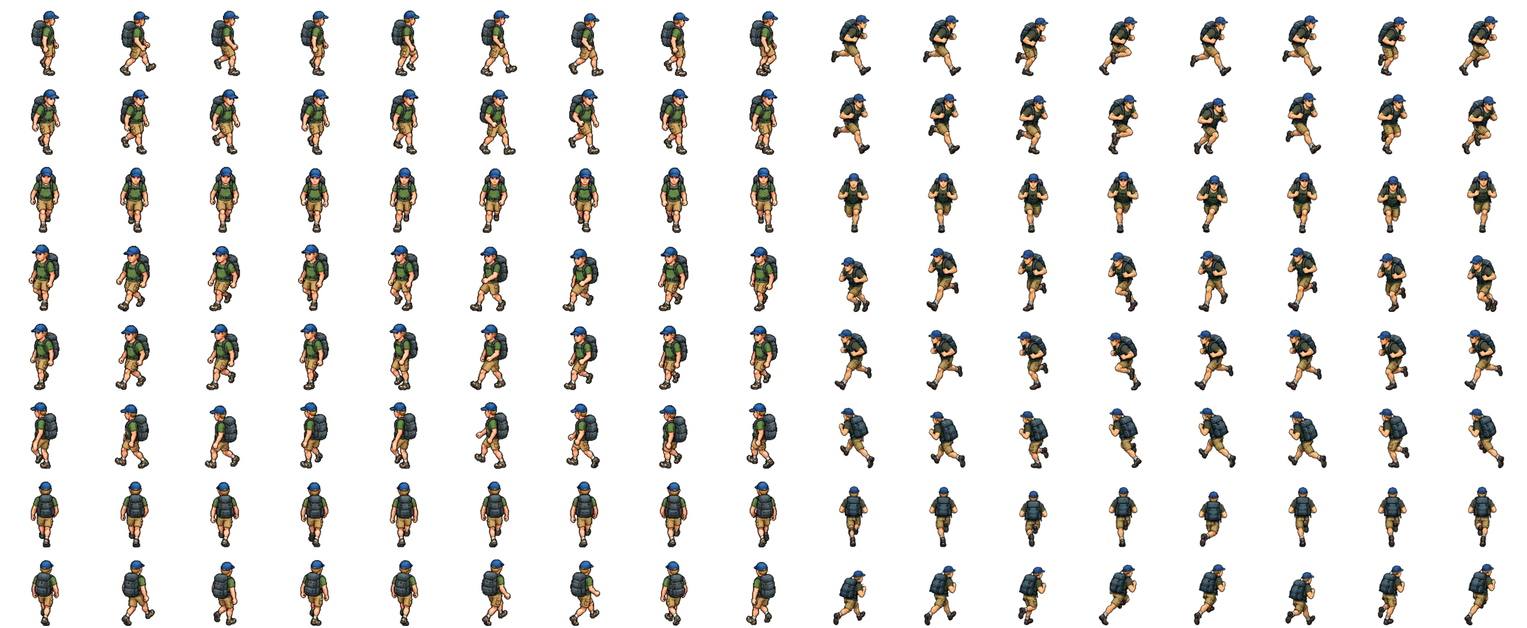
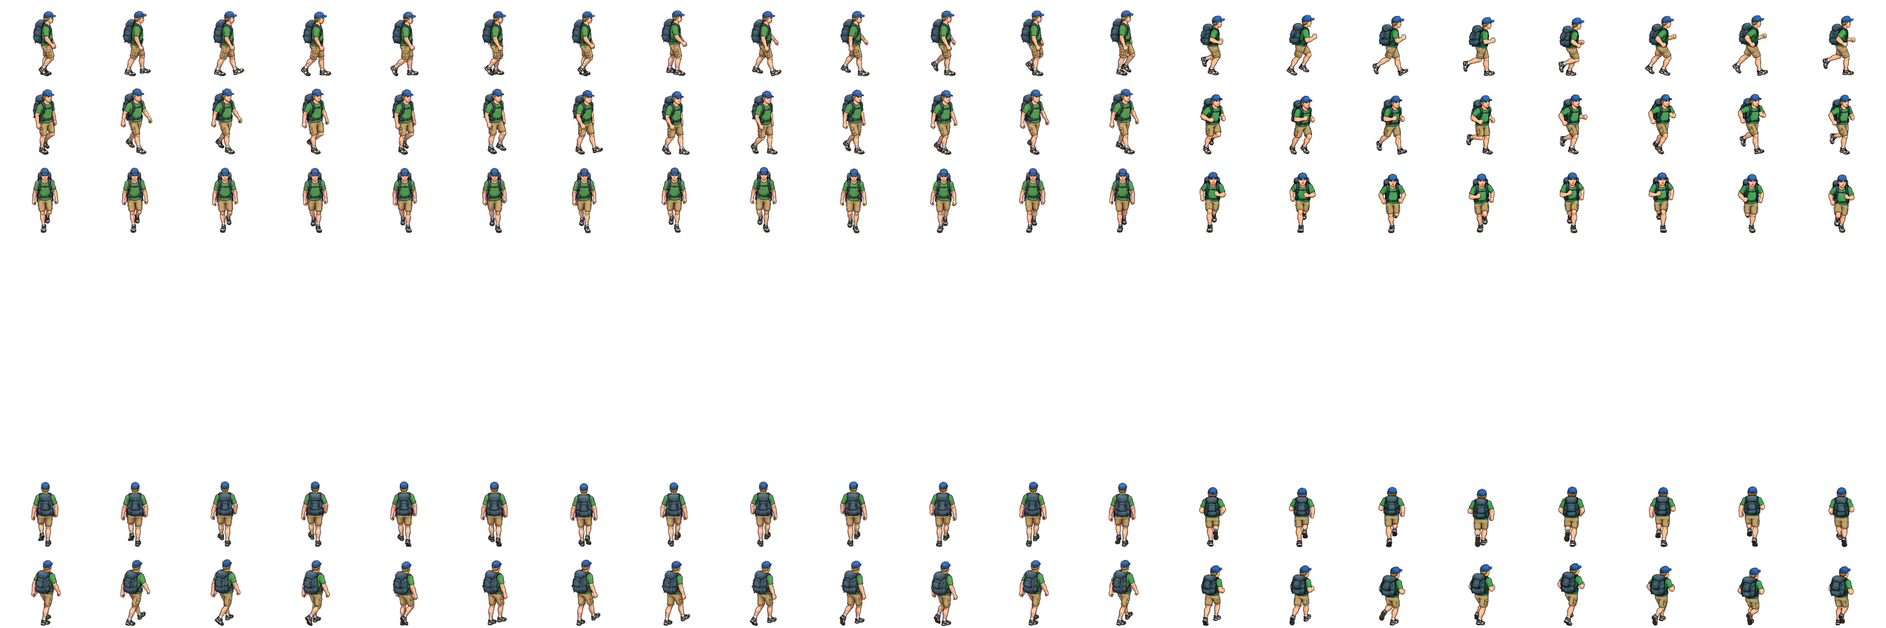
feat : 군인 넘어짐(무릎 닿을 때 소총을 놓침), 외국인 걷기·달리기·넘어짐(주인공 동작에서 포즈 옮기기), 마젠타 배경 달리기 시트는 초록 걷기(_despill)를 하지 않음

diff --git a/game-korea/tools/motion_game_index.js b/game-korea/tools/motion_game_index.js
@@ -1,6 +1,6 @@
 // tools/gen_motion_index.py가 만든다 — 손으로 고치지 않는다
 window.GAME_DIR8 = {
- "version": 1792763314,
+ "version": 1792766499,
  "chars": [
   {
    "name": "주인공",
@@ -816,6 +816,56 @@ window.GAME_DIR8 = {
       -40.0,
       -69.8
      ]
+    },
+    "ko_dirs": [
+     "s",
+     "ne",
+     "n",
+     "nw",
+     "e",
+     "sw"
+    ],
+    "ko_clips": [
+     {
+      "name": "fall",
+      "col": 0,
+      "frames": 9,
+      "duration": 1.2,
+      "loop": false
+     },
+     {
+      "name": "out",
+      "col": 9,
+      "frames": 2,
+      "duration": 1.6,
+      "loop": true
+     }
+    ],
+    "ko_head": {
+     "s": [
+      -23.0,
+      -64.0
+     ],
+     "ne": [
+      19.0,
+      -67.0
+     ],
+     "n": [
+      19.0,
+      -64.0
+     ],
+     "nw": [
+      -23.0,
+      -63.0
+     ],
+     "e": [
+      10.5,
+      -64.0
+     ],
+     "sw": [
+      -25.0,
+      -61.0
+     ]
     }
    }
   },
@@ -1217,24 +1267,68 @@ window.GAME_DIR8 = {
      "se",
      "e",
      "ne",
-     "n",
-     "nw",
-     "w",
-     "sw"
+     "n"
     ],
-    "frames": 8,
+    "frames": 12,
     "run_dirs": [
      "s",
      "se",
      "e",
      "ne",
-     "n",
-     "nw",
-     "w",
-     "sw"
+     "n"
     ],
     "run_frames": 8,
-    "turns": []
+    "turns": [],
+    "ko_dirs": [
+     "s",
+     "ne",
+     "n",
+     "nw",
+     "e",
+     "sw"
+    ],
+    "ko_clips": [
+     {
+      "name": "fall",
+      "col": 0,
+      "frames": 9,
+      "duration": 1.2,
+      "loop": false
+     },
+     {
+      "name": "out",
+      "col": 9,
+      "frames": 2,
+      "duration": 1.6,
+      "loop": true
+     }
+    ],
+    "ko_head": {
+     "s": [
+      -27.0,
+      -72.0
+     ],
+     "ne": [
+      24.0,
+      -72.0
+     ],
+     "n": [
+      24.0,
+      -69.0
+     ],
+     "nw": [
+      -27.0,
+      -70.0
+     ],
+     "e": [
+      14.0,
+      -70.0
+     ],
+     "sw": [
+      -26.0,
+      -60.0
+     ]
+    }
    }
   },
   {

diff --git a/game-korea/tools/prepare_character_sprites.py b/game-korea/tools/prepare_character_sprites.py
@@ -652,7 +652,7 @@ def process_dir8(cid: str, sources: dict, debug: bool) -> None:
 
 DIR8_SHEET_ROWS = ["s", "sw", "w", "nw", "n"]   ## 한 장짜리 8방향 시트의 줄 (나머지 ↘ → ↗는 게임이 좌우를 뒤집어 쓴다)
 PUNCH_H = 0.95   ## 주먹 칸 키 / 걷기 키 — 무릎을 굽힌 싸움 자세
-RUN_H_OF = {"office": 0.92, "soldier": 0.92}   ## 달리기 키 / 걷기 키를 머리 폭 대신 이 값으로 (걷기·달리기를 같은 키로 그린 시트 — 주인공 비율)
+RUN_H_OF = {"office": 0.92, "soldier": 0.92, "foreigner": 0.92}   ## 달리기 키 / 걷기 키를 머리 폭 대신 이 값으로 (걷기·달리기를 같은 키로 그린 시트 — 주인공 비율)
 RUN_H_RANGE = (0.85, 0.92)   ## 달리기 키 / 걷기 키 — 머리 폭으로 맞춘 크기가 이 밖이면 끝으로 당긴다
 RUN_ROW_K = (0.85, 1.25)     ## 달리기 줄마다 키를 시트 가운데값에 맞출 때 배율 한도 (튀는 줄만 당긴다)
 NEON = {"firefighter"}   ## 형광 반사띠가 초록 기운이라 _despill로 걷지 않는다
@@ -705,6 +705,12 @@ def _despill(cell, over: int = 30):
     hit = (img[:, :, 3] > 0) & (rgb[:, :, 1] - top > over)
     img[:, :, 1][hit] = top[hit]
     return (img,) + tuple(cell[1:])
+
+
+def _green_bg(path: Path) -> bool:
+    """시트 배경이 초록인가 (왼쪽 위 구석) — 마젠타 배경 시트에는 초록 기운이 남지 않아 _despill이 초록 옷만 어둡게 한다"""
+    r, g, b = Image.open(path).convert("RGB").getpixel((2, 2))
+    return g > r + 60 and g > b + 60
 
 
 def _head_w(cell) -> float:
@@ -937,7 +943,7 @@ def process_dir8_sheet(cid: str, walk_src: "Path | None", frames: int, run_src: 
     meta = {"dirs": present, "frames": frames}
     if run_src:
         rcells = load_cells(run_src, run_frames, _sheet_nrows(run_src), **opts)
-        if cid in KEEP_TINT and cid not in NEON:
+        if cid in KEEP_TINT and cid not in NEON and _green_bg(run_src):
             rcells = {k: _despill(c) for k, c in rcells.items()}
         runs = {d: [c for c in (rcells[(i, k)] for k in keep) if c] for i, d, keep, _ in run_rows}
         # 걷기 그림의 머리 폭(게임 크기)과 같아지게

diff --git a/game-korea/CLAUDE.md b/game-korea/CLAUDE.md
@@ -99,7 +99,7 @@ NPC 헬기(경찰 ★5·군 기동헬기 ★6 중 1대·119 구조헬기)는 `Po
 사람 모습(`person_drawer.gd`·`data/npc`의 outfit·hat·face·prop)을 고쳤으면 `godot --path . res://tools/person_gallery.tscn -- --shot`으로 전 종 앞·뒤를 크게 본다. 설계도 그림과 맞춰 볼 때는 `--ids=office,boss`로 몇 종만 더 크게 본다. 모습 값은 데이터에 두고, 보행자 rng를 더 뽑지 않는다(`look_seed`).
 인물(2.5D 화면)은 `PersonRig`가 그린다. `assets/characters/<id>.png`(4열 서 있기·걷기 A·걷기 B·달리기 × 2행 앞↘·뒤↗, 칸 96×112, 발끝 (48,108))가 있으면 그 그림을, 없으면 관절 그림(몸 기준 3차원 관절 점을 보는 방향으로 돌려 찍는다)을 쓴다. 그림 원본은 제미나이가 그린 `output/imagegen/characters/NN_<id>.png`이고 `python3 tools/prepare_character_sprites.py [--debug]`로 다시 뽑는다(테두리 플러드필로만 배경을 지워 검은 옷이 뚫리지 않게, 시트 안에서 같은 배율·같은 발끝). 새 그림 요청 규칙은 `output/imagegen/characters/GEMINI_PROMPT_v2.md`. `person_gallery.tscn -- --sheet`(성인 12종 앞·뒤), `-- --rig [--ids=...]`(8방향 걷기·달리기·쓰러짐), `--code-rig`면 그림 대신 관절 그림. 그림을 줄여 그리므로 사람 노드는 `texture_filter = LINEAR`. 그림은 8열(0 서 있기·1 걷기 A·2 걷기 B·3 달리기·4 걷기 모음·5 달리기 A·6 달리기 B·7 달리기 모음)이다. 걷기는 [1·4·2·4], 달리기는 [5·7·6·7]을 돈다 — 제미나이 그림의 A·B가 같은 다리인 경우가 많아, 다리를 모은 칸을 사이에 넣어 다리가 벌어졌다 모이게 한다. 모음 칸은 다듬기 도구가 걷기 A·달리기 A의 팔·다리를 몸 가운데로 모아 만든다(팔이 흔들렸다 붙는다)(서 있기 칸은 다른 그림에서 와서 방향·옷이 달라 쓰지 않는다). 걷기·달리기 두 장을 `NN_<id>_walk.png`·`NN_<id>_run.png`(2열×2행)로 따로 받으면 그것으로 바꾼다.
 걷기·달리기 한 바퀴 8장(`NN_<id>_walk_front/back.png`·`_run_front/back.png`, 각 4열×2행)을 받으면 시트 9~16열(걷기)·17~24열(달리기)에 붙고, 게임은 모음 칸 대신 8장을 차례로 넘긴다. 코덱스 요청은 `output/imagegen/characters/CODEX_WALK8_LEGS_PROMPT.md` — 생성기가 "반대 다리"를 못 지켜서, 인물 오른쪽 발목에 초록(#00FF00) 띠를 그리게 하고 `prepare_character_sprites.py --check-legs`로 1번 칸 앞·5번 칸 뒤인지 검사한다(띠는 다듬을 때 신발 색으로 지운다. 두 다리가 같은 색이라 어느 다리가 나갔는지 안 보여서, 띠가 없는 먼 다리를 어둡게 칠한다 — `shade_far_leg`). 주인공이 이 방식으로 통과했다. 한 바퀴 원본은 4×2(8장)·4×4(16장) 모두 받고(캔버스 비율로 판단), 게임 시트에는 16장씩 들어간다(걷기 8~23열, 달리기 24~39열). 자세·방향이 튀는 칸은 같은 이름의 `.skip.txt`(예: `00_player_run_front.skip.txt`에 `2 3 9`)에 적으면 빼고 남은 장으로 채운다. 정방향 4방향 걷기(`NN_<id>_walk_dir4.png`, 8열×4행 앞·뒤·오른쪽·왼쪽, 줄마다 `_walk_dir4_<s|n|e>.png` 4×4 16장으로 바꿔 끼울 수 있다, 투명 PNG는 그 투명도를 그대로 쓴다) 또는 12장 한 바퀴 `NN_<id>_walk12_dir4.png`(12열×4행 앞·왼쪽·오른쪽·뒤, 있으면 앞·뒤·옆 걷기를 모두 이걸로 — 팔·다리 틈의 어두운 마젠타까지 그림 전체에서 배경색 섞임을 푼다 `unmix_key`)를 받으면 `assets/characters/<id>_dir4.png`(앞·뒤·옆 3행, 0열 서 있기 + 걷기 24장 [+ `_run_dir4` 달리기 24장], 12장 원본은 두 번씩·8장 원본은 세 번씩 고르게)가 생기고, 게임은 서 있기·걷기·달리기를 이걸로 그린다(`PersonRig._draw_dir4`, 쓰러짐만 예전 시트). 왼쪽 줄은 생성 그림이 얼굴만 돌아간 경우가 있어 오른쪽 줄을 뒤집어 쓴다. 방향은 화면 진행 각도로 고르고 직전 방향을 14° 더 봐 준다(`DIR4_HOLD`) — 사선 3/4 그림은 칸마다 보는 방향이 달라 뒤로 걸을 때 좌우로 휙휙 돌아 보였다. 지금은 주인공만 있다.
-8방향 걷기(`NN_<id>_walk8_<방향>.png`, 방향 e·se·s·sw·w·nw·n·ne, 각 4열×4행 16장)를 받으면 `assets/characters/<id>_dir8.png`(8행, 0열 서 있기 + 걷기 16장, 칸 128×112) + `.json`(받은 방향 목록)이 생기고, 게임은 4방향보다 먼저 이걸 쓴다(`PersonRig._draw_dir8`). 없는 방향은 좌우 짝을 뒤집고(↙ ← ↘), 그것도 없으면(↓·↑) 가장 가까운 방향을 쓴다. 경계에서는 직전 방향을 12° 더 지킨다. 한 장짜리 8방향 시트 `NN_<id>_walk<N>_dir8.png`(N열×5행 ↓·↙·←·↖·↑, 줄마다 한 바퀴 N장 — walk24·walk12, 초록·마젠타 배경은 `unmix_key`로 그림 전체에서 섞임을 푼다)도 받는다 — 있으면 방향별 시트를 덮어쓰고, `.json`의 `frames`(N)를 게임이 읽는다(없으면 16). 옷이 배경과 같은 계열인 인물(초록 배경에 국방색 재킷 civ_f·카키 바지 merchant·형광 반사띠 firefighter·초록 티셔츠 foreigner·형광 조끼 traffic_cop·얼룩무늬 soldier·올리브 조끼 police_heli)은 `KEEP_TINT`에 넣어 배경 가장자리와 짙은 틈만 푼다. 지금은 player(walk24)·civ_f·office·delivery·merchant·gang_f·boss·thug·robber·police·swat·firefighter·assassin(walk12)가 한 장 시트다(↘·→·↗는 뒤집기). 시민 civ_f·civ_m과 구급대원 paramedic은 걷기 12장·달리기 8장을 주인공 동작에서 칸마다 자세를 옮겨 다시 그렸다 — 주인공 시트에서 뽑은 동작 참고(`reference/civ_f_motion/`, 5행 ↓ ↘ → ↗ ↑, 같은 칸 = 같은 자세)를 주고 코덱스가 인물만 바꿔 그린다(요청서 `CODEX_CIV_F_MOTION_PROMPT.md`·`CODEX_CIV_M_MOTION_PROMPT.md`·`CODEX_PARAMEDIC_MOTION_PROMPT.md`, 예전 시트는 `reference/old_civ_f/`·`old_civ_m/`·`old_paramedic/`). 다른 인물도 걸음이 튀면 같은 방법을 쓴다. 직장인 office는 같은 방법에 직장인다운 몸짓(바른 자세·작은 팔 흔들기 출근 걸음, 숙여 서두르는 지각 달리기·펄럭이는 넥타이)을 얹고, 한 손 소지품(서류가방)이 뒤집기로 왼손에 가지 않게 왼쪽 세 방향(↙ ← ↖)도 따로 받았다 — 동작 참고 `reference/civ_f_motion/*_left.png`(오른쪽 줄을 칸마다 뒤집은 것), 받은 오른쪽 5줄·왼쪽 3줄(`reference/office_motion/`)을 칸 크기를 맞춰 8줄 `02_office_walk12_dir8.png`·`_run8_dir8.png`(.rows.txt s se e ne n sw w nw)로 이었다(요청서 `CODEX_OFFICE_MOTION_PROMPT.md`, 예전 시트 `reference/old_office/`). 걷기·달리기를 같은 키로 그린 시트는 머리 폭 맞추기가 달리기를 하한(0.85)까지 줄여서 `RUN_H_OF`로 주인공 비율 0.92를 준다. 주인공 걷기·달리기는 제자리에서 걸으며 천천히 도는 생성 영상(`reference/video/`, 가운데 인물)에서 뽑았다 — `python3 tools/video_cycle_sheet.py find`로 구간마다 처음과 끝이 이어지는 한 바퀴를 찾고, `sheet`로 줄마다 `방향:시작+길이`(끝에 m이면 반걸음 + 좌우로 뒤집은 반걸음 — 영상이 돌아 한 바퀴가 안 이어지는 앞·뒷모습)를 붙여 투명 시트(`00_player_walk24_dir8.png`·`_run16_dir8.png`, 고른 장 번호는 `.rows.txt` 주석)를 낸다. 배경은 이 도구가 지운다(영상 초록이 덜 진해 다듬기 도구의 문턱 90이면 청바지에 구멍이 난다). 영상에 ↓·↘·→·↑만 있어 ←쪽은 뒤집기, ↗·↖는 가까운 →(뒤집은 ←)를 쓴다. 예전 그림 시트는 `reference/old_player_walk24_run8/`. thief·homeless·foreigner·gang_oldtown·police_heli는 walk8 8행 시트로 8방향을 모두 그림대로 쓴다(gang_smuggler·traffic_cop·flyer는 줄이 한 칸씩 밀려 `.rows.txt`로 방향을 다시 적고 ↗(flyer는 →)는 뒤집기)(코덱스 요청은 `CODEX_WALK8_DIR8_MOTION_PROMPT.md` — 참고 동작 `reference/walk8_motion_ref.png`의 관절 움직임 + `reference/npc_ref/` 인물 그림). 달리기 시트 `NN_<id>_run<M>_dir8.png`가 있으면 걷기 다음 칸에 붙고(`.json`의 `run_dirs`·`run_frames`, 크기는 머리 폭으로 걷기에 맞춘다) 게임이 달리기를 그것으로 그린다 — 한 장 시트 13종 모두와 walk8 인물 8종(thief·homeless·foreigner·gang_oldtown·gang_smuggler·traffic_cop·flyer·police_heli)(8방향 모두 8장, 8행 시트 ↓ ↘ → ↗ ↑ ↖ ← ↙, `.rows.txt`로 줄 방향을 적는다). 생성 그림은 ↓ 줄을 20%쯤 작게 그리곤 해서 달리기는 줄마다 키를 시트 가운데값에 맞춘다(`RUN_ROW_K`). gang_gangnam(20)·bus_driver(27)는 달리기 시트만 있어 달리기만 넣었다(`.json` dirs [] · frames 0 — 서 있기·걷기는 예전 2방향 그림, 키는 걷기 키의 `RUN_H_RANGE` 가운데). 걷기 시트가 오면 같이 붙는다. 칸을 꽉 채워 그려 모자가 윗줄로 넘어간 시트(줄 간격이 고르지 않다 — 그대로 자르면 머리가 잘린다)는 `python3 tools/regrid_sheet.py 원본 결과 열 줄`로 덩어리마다 칸을 다시 정해 고른 160×240 칸으로 옮긴다(civ_m 달리기, 원본은 `reference/raw/`). `KEEP_TINT` 인물의 달리기는 다리 틈에 남는 짙은 초록을 한 번 더 걷는다(`_despill`, 형광 반사띠가 있는 `NEON`(firefighter)은 뺀다). 줄 수는 `.rows.txt` 줄 수를 따르고(없으면 5행), 머리를 크게 그린 그림은 몸이 작아지므로 달리기 키를 걷기 키의 85~92%(`RUN_H_RANGE`) 안으로 당긴다. 넘어짐 시트 `NN_<id>_fall<K>_dir8.png`(8행 × K장, 서 있기 → 엎드림)가 있으면 달리기 다음 칸에 붙고(`.json`의 `fall_dirs`·`fall_frames`·`fall_col`, 누운 자세는 옆 칸까지 길게 그려져 좌우로 넉넉히 읽고 덩어리 가운데를 칸 가운데에 맞춘다) 주인공이 쓰러지면 `DIR8_FALL_FRAME`(0.09초)마다 넘기다 마지막 칸에서 멈춘다(`_draw_dir8_fall`, 보행자는 예전처럼 눕힌 그림). 그림자는 누울수록 그 칸 그림이 차지한 폭·깊이에 맞춘 부드러운 타원(`_soft_shadow`)과 몸 둘레 그늘이다. `person_gallery.tscn -- --rig --fall`로 본다. 주먹 콤보 시트 `NN_<id>_combo<P>_dir8.png`(8행 × 12장: 싸움 자세 · 잽 · 스트레이트 · 훅 · 싸움 자세)가 있으면 넘어짐 다음 칸에 붙고(`.json`의 `punch_dirs`·`punch_frames`·`punch_col`, 크기는 걷기 키의 `PUNCH_H`배, 가로는 몸통 가운데) 주인공이 주먹을 지를 때마다(`Player.punch`, `COMBO_GAP` 0.7초 안에 이어 지르면) 잽 → 스트레이트 → 훅 토막(`PersonRig.PUNCH_SEGS`)을 `PUNCH_FRAME`(0.07초)마다 넘긴다 — 지금 주인공 맨주먹은 이것 대신 영상 공격을 쓴다(방망이 같은 근접 무기·NPC는 그대로). 주인공 맨주먹은 펀치 영상(`output/imagegen/characters/reference/video/punch.mp4`, 4×2 칸에 같은 동작을 여러 방향에서)에서 뽑은 잽 → 스트레이트 → 어퍼컷(숙여 피하기부터) → 카운터(회피부터) 4가지다: 칸·방향·공격 구간(영상 장 번호, 타격 장, 재생 초)은 `output/imagegen/characters/punch_capture/capture_manifest.json`에 적고, `python3 tools/punch_video_sheet.py <매니페스트> --preview`가 칸마다 배경을 지워 `00_player_attacks_dir8.png`+`.json`(발 기준점은 줄마다 한 번 — 영상이 제자리라 발이 미끄러지지 않는다)을 낸다. `python3 tools/prepare_character_sprites.py player --attacks-only`가 그것을 걷기 시트와 따로 `assets/characters/player_attacks_dir8.png`(걷기 시트 옆에 붙이면 GPU 텍스처 가로 한도 16384px를 넘는다)로 내고 `.json`의 `attack_dirs`·`punch_attacks`([{name, col, frames, hit_frame, duration}])만 바꾼다(크기·옷 색은 같은 방향 걷기 서 있기에 맞춘다, `--attacks-only`는 걷기 시트를 다시 만들지 않는다 — player ↑ 줄은 원본 시트와 다르게 다듬어져 있다). 영상에는 ↓·↙·→·↖만 있어 ↘·←·↗는 뒤집기, ↑는 가까운 ↖·↗를 쓴다(`PersonRig._draw_video_punch`). 입력은 `PlayerWeapons._request_punch`: 누를 때 공격 하나(길게 눌러도 반복 없음), 공격 중 누르면 다음 공격 한 번만 예약, 끝나고 `COMBO_GAP`(0.7초) 안에 누르면 다음 공격·지나면 잽, 시작 때 방향을 끝까지 지킨다. 피해는 공격마다 타격 장(`hit_frame` / `frames` × `duration`)에 한 번만 `Combat.fire`(맨주먹 피해·사거리 그대로). 끝나면 잠시 싸움 자세(`combat_stance`). `-- --rig --ids=player --punch [--shot]`(공격마다 한 줄, 타격 장면), 본편 실제 입력은 `screenshot.tscn -- --only=punch`(방향별 타격 장면·길게 누르기·연타 순서 출력), 검사는 `player_punch_test`. 소총 조준·발사(`WeaponType.pose` rifle — `rifle.tres`)도 같은 도구로 뽑았다: 원본 `reference/video/rifle.mp4`(받은 이름 gun1.mp4, 개머리판을 어깨에 대고 조금 숙여 겨눈 채 2초마다 3점사), `output/imagegen/characters/rifle_capture/capture_manifest.json`(kind rifle, `remove_flash` — 영상 총구 불꽃은 지우고 게임 궤적의 불꽃을 쓴다) → `00_player_rifle_dir8.png` → `--attacks-only`가 `assets/characters/player_rifle_dir8.png` + `.json` `rifle_dirs`·`rifle_clips`(aim 되풀이 · fire). 영상에 ↘·→·←·↖만 있어 ↙·↗는 뒤집기, ↓·↑는 가까운 방향. 서 있을 때만 이 그림이고(`PersonRig._draw_gun`, 걷기·달리기는 평소 그림 — 소총 든 걷기 그림은 없다), 쏠 때마다(`PlayerWeapons.shoot`가 메타 `shot_at`) 발사 장면을 처음부터 넘긴다. 총알은 몸에서 `WeaponType.muzzle`(소총 18)만큼 앞에서 나가고(맞히기), 총 자세 그림일 때 궤적·총구 불꽃은 그림 속 총구에서 시작한다(`PersonRig.gun_muzzle` → `Combat.fire`의 `shown` — 총구 자리는 다듬기 도구가 조준 장면에서 재서 `.json` `<자세>_muzzle`에 적고, 몸에 겹쳐 잴 수 없는 방향은 매니페스트 `muzzle`에 적는다). 권총(`pistol.tres` pose pistol)도 같은 도구로 뽑았다: 원본 `reference/video/pistol.mp4`(받은 이름 gun2.mp4, 두 손으로 앞으로 겨눈 채 제자리에서 천천히 걷고 약 2초마다 한 발 — 칸 너비가 달라 칸마다 따로 잘라 가장 큰 칸에 놓는다, 생성기 워터마크 별은 매니페스트 `star` 칸에서 불투명도를 재서 걷어 낸다), `output/imagegen/characters/pistol_capture/capture_manifest.json` → `assets/characters/player_pistol_dir8.png` + `.json` `pistol_dirs`(8방향 모두 영상)·`pistol_clips`(aim 한 장 · fire · walk 겨눈 채 걷기 한 바퀴). 총 자세 그리기는 `PersonRig._draw_gun`(자세 목록 `GUN_POSES`): 서 있으면 조준·발사, walk 장면이 있으면 걸을 때 걸음 박자로 넘기고, 뛰면 평소 그림. 화면은 `screenshot.tscn -- --only=pistol`, 검사는 `player_pistol_test`. 로켓포(`rocket.tres` pose rocket)도 같은 도구로 뽑았다: 원본 `reference/video/rocket.mp4`(칸 사이 선 없이 10명이 흩어 서서 돌아서며 메고 → 겨누고(103~134) → 쏘면 폭발 연기가 모두를 덮는다), `output/imagegen/characters/rocket_capture/capture_manifest.json` — 칸이 서로 닿아 칸마다 `erase`(옆 인물 조각을 배경색으로 덮을 영상 box), 앞발이 낮은 칸은 `foot_band`. 발사 장면은 연기에 덮여 쓰지 않고 조준 장면에서 만든다: `unload`가 탄두를 지우고(정면 ↓는 탄두가 손 앞에 겹쳐 둘레 옷 색으로 메우고 빈 발사관 입구를 그린다 — `rocket.fill` inpaint·`mouth`), `recoil`이 발사관 축 뒤·위로 밀었다 돌린다. 칸마다 `rocket.tip`(발사관 입구 앞)·`rear`(뒤끝)을 적으면 `.json` `rocket_muzzle`·`rocket_breech`가 된다. 영상에 ↓·↘·→·↖만 있어 ↙·←·↗는 뒤집기, ↑는 가까운 방향. 서 있을 때만 이 그림(겨눈 채 걷는 장면은 없다). 로켓 자체·불꽃·연기는 게임이 그린다: `PlayerWeapons`가 `PersonRig.gun_muzzle`·`gun_breech`를 `Combat.fire`의 shown·rear로 넘기고, 로켓은 그림 속 탄두 자리에서 나와 `ROCKET_SETTLE`을 날며 맞히는 길(가슴 높이)로 내려앉는다(`Combat._rocket_at` — 맞히기는 처음부터 그 길). 꼬리 연기(`_rocket_smoke`, `ROCKET_PUFF_EVERY`마다 그리는 자리가 지난 길 위에)와 쏜 자리의 앞 불꽃·뒤 불길·부채꼴 후폭풍 연기(`_backblasts`)는 화면 좌표로 둥글게 그린다(`FireFx.puff` — 가장자리가 부드러운 연기 덩이). 화면은 `screenshot.tscn -- --only=rocket`, 검사는 `player_rocket_test`. 주인공 제자리 점프(Space·패드 A — 차에서는 핸드브레이크, `Player._jump_step`)도 같은 도구로 뽑았다: 원본 `reference/video/jump.mp4`(4×2 칸, 같은 인물이 제자리에서 두 발로 뛴다 — 웅크림 38~61·발 떨어짐 62·꼭대기 70·닿음 78·다시 섬 99), `output/imagegen/characters/jump_capture/capture_manifest.json`(kind jump, 동작 `ground` — 떠 있는 장을 땅에 내려 두고 내린 만큼을 장마다 `lift`로 적는다) → `assets/characters/player_jump_dir8.png` + `.json` `jump_dirs`·`jump_clips`(takeoff·land 장 차례, 방향마다 lift 칸 px). 영상에 ↖만 없어 ↗를 뒤집는다. `PersonRig._draw_jump`가 웅크림 `Player.JUMP_PRE` · 공중 `JUMP_AIR` · 받기 `JUMP_POST`로 장을 넘기고 공중에서는 lift × `JUMP_LIFT`만큼 올려 그린다(그림자는 땅에서 작아진다). 그림만 뜬다 — 충돌·층은 땅 그대로, 뛴 순간의 걸음 속도·방향을 끝까지 지키고, 뛰는 동안은 쏘지 않는다. 화면은 `screenshot.tscn -- --only=player_jump`. 주인공 넘어짐·기절도 같은 도구로 뽑았다: 원본 `reference/video/fall.mp4`(4×3 칸 — 36~82장 휘청 → 무릎 → 엎드림, 84장부터 엎드려 숨만 쉰다, 칸 3·6·7·10은 쓰러지지 않아 버린다), `output/imagegen/characters/ko_capture/capture_manifest.json`(kind ko, 칸마다 누운 머리 쪽 `head` left·right) → `assets/characters/player_ko_dir8.png`(칸 256×112 — 누운 몸이 옆으로 길다, `KO_CELL_W`) + `.json` `ko_dirs`·`ko_clips`(fall 1.2초 한 번 · out 숨쉬기 되풀이)·`ko_head`(다 누운 머리 자리). 영상에 ↘·←가 없어 ↙·→를 뒤집는다. 쓰러지면(`Player.knock_down`·체력 0 기절) `PersonRig._draw_dir8_fall`이 fall을 넘기고 out을 되풀이한다 — 일어나는 장면은 쓰지 않는다(체포·병원으로 넘어간다). 기절(체력 0)이면 머리 위에 노란 별이 돈다(`Player._draw_out_stars`, 매에 쓰러진 체포는 별 없음). ko 그림이 없으면 예전 넘어짐 시트(`fall_col`). 화면은 `screenshot.tscn -- --only=player_ko`(pko_<방향>_fall·_out·pko_bust). 보행자 넘어짐도 이 그림에서 포즈 옮기기로 만든다: 주인공 시트에서 10장(`tools/ko_pose_sheet.py`의 `PICK` — 쓰러짐 9장 + 숨쉬기)을 고른 동작 참고 `reference/ko_motion/fall10_motion_ref_a·b.png`(5열 × 6행, 줄은 영상 시트 줄 순서)를 주고 코덱스가 인물만 바꿔 그린 `reference/ko_motion/<NN>_<id>_fall10_a·b.png`(요청서 `CODEX_KO_NPC_PROMPT.md`, 손에 든 가방은 무릎이 닿을 때 바닥에 놓친다)를 `python3 tools/ko_pose_sheet.py <NN>_<id>`가 칸마다 주인공 참고 칸 자리·크기에 맞춰 `<NN>_<id>_ko_dir8.png`+`.json`(주인공 줄의 발 기준점·키·머리 쪽)으로 내고, `prepare_character_sprites.py <id> --attacks-only`가 `assets/characters/<id>_ko_dir8.png`로 넣는다 — 지금 civ_f·civ_m·office·paramedic. 그림이 있으면 보행자도 `_draw_dir8_fall`로 쓰러지고(없으면 예전처럼 눕힌 그림), 모습이 바뀔 때만 다시 그리므로 `PersonRig.ko_frame`을 다시 그릴 열쇠에 넣는다. 기절 별은 누운 머리(`ko_head`) 위(`Pedestrian._draw_out_stars`). 화면은 `screenshot.tscn -- --only=npc_ko`(nko_<id>_fall·_out). 군인(soldier)도 같은 방법으로 소총을 든 걷기 12장·달리기 8장(동작 참고는 `reference/civ_f_motion/`, 팔은 소총을 두 손으로 든 채)과 소총 겨누기·쏘기(주인공 소총 시트에서 겨누기 4장 + 쏘기 8장을 고른 `reference/soldier_motion/rifle12_motion_ref_a·b.png`, ↘ → ↖ ←)를 받았다 — 요청서 `CODEX_SOLDIER_PROMPT.md`, 받은 그림 `reference/soldier_motion/`, 예전 시트 `reference/old_soldier/`, 소총은 `ko_pose_sheet.py 25_soldier --kind=rifle` → `prepare_character_sprites.py soldier`가 `assets/characters/soldier_rifle_dir8.png`(+ `.json` `rifle_dirs`·`rifle_clips`·`rifle_muzzle`). 보행자는 총을 들었으면(`Pedestrian._drawn_weapon` — 경찰·군인은 `npc.weapon`) 자기 그림이 있는 총 자세를 쓴다(`PersonRig._gun_pose`): 서 있으면 겨누기, 쏘면(`PoliceDispatcher._shoot`이 메타 `shot_at`) 발사 장면, 궤적은 그림 속 총구에서(`gun_muzzle`의 look). 경찰은 일하는 동안 늘 WALK 상태라 그림 걸음을 빠르기로 고른다(`PoliceOfficer._draw_gait` — 서 있기·걷기·쫓아 뛰면 달리기). 화면은 `screenshot.tscn -- --only=soldier`(soldier_aim·_fire·_run_N). `person_gallery.tscn -- --rig --rifle [--shot]`, 본편은 `screenshot.tscn -- --only=rifle`, 검사는 `player_rifle_test`. `.rows.txt` 줄 끝에 `>방향 칸`(예: `s 1-7 >se 8-12`)을 붙이면 그 칸은 도는 장면(`.json`의 `turns`)이다. 주인공은 보이는 방향을 목표까지 45°씩 `DIR8_TURN_STEP`(0.07초)마다 돌리고, 달리며 도는 장면이 있는 두 방향 사이를 오가면 그 장면을 넘긴다(`_dir8_turn`, 지금 주인공 시트에는 도는 장면이 없다 — 예전 12장 시트는 `output/imagegen/characters/reference/old_player_run12/`). 보행자는 걸음 박자가 바뀔 때만 다시 그려 중간 방향에서 멈출 수 있어 바로 바꾼다. 줄 배치가 다르거나 튀는 칸이 있으면 같은 이름의 `.rows.txt`에 줄마다 `방향 [칸]`(예: `s 1-7`, `n 1-12,14`, 안 쓰는 줄은 `-`)을 적는다. 달리기 그림이 없으면 정방향 4방향 그림의 달리기를(`_dir4_has_run`), 그것도 없으면 걷기를 빠르게 넘긴다. 4방향·8방향 칸(128px)과 기본 시트 칸(96px)을 섞지 않는다.
+8방향 걷기(`NN_<id>_walk8_<방향>.png`, 방향 e·se·s·sw·w·nw·n·ne, 각 4열×4행 16장)를 받으면 `assets/characters/<id>_dir8.png`(8행, 0열 서 있기 + 걷기 16장, 칸 128×112) + `.json`(받은 방향 목록)이 생기고, 게임은 4방향보다 먼저 이걸 쓴다(`PersonRig._draw_dir8`). 없는 방향은 좌우 짝을 뒤집고(↙ ← ↘), 그것도 없으면(↓·↑) 가장 가까운 방향을 쓴다. 경계에서는 직전 방향을 12° 더 지킨다. 한 장짜리 8방향 시트 `NN_<id>_walk<N>_dir8.png`(N열×5행 ↓·↙·←·↖·↑, 줄마다 한 바퀴 N장 — walk24·walk12, 초록·마젠타 배경은 `unmix_key`로 그림 전체에서 섞임을 푼다)도 받는다 — 있으면 방향별 시트를 덮어쓰고, `.json`의 `frames`(N)를 게임이 읽는다(없으면 16). 옷이 배경과 같은 계열인 인물(초록 배경에 국방색 재킷 civ_f·카키 바지 merchant·형광 반사띠 firefighter·초록 티셔츠 foreigner·형광 조끼 traffic_cop·얼룩무늬 soldier·올리브 조끼 police_heli)은 `KEEP_TINT`에 넣어 배경 가장자리와 짙은 틈만 푼다. 지금은 player(walk24)·civ_f·office·delivery·merchant·gang_f·boss·thug·robber·police·swat·firefighter·assassin(walk12)가 한 장 시트다(↘·→·↗는 뒤집기). 시민 civ_f·civ_m과 구급대원 paramedic은 걷기 12장·달리기 8장을 주인공 동작에서 칸마다 자세를 옮겨 다시 그렸다 — 주인공 시트에서 뽑은 동작 참고(`reference/civ_f_motion/`, 5행 ↓ ↘ → ↗ ↑, 같은 칸 = 같은 자세)를 주고 코덱스가 인물만 바꿔 그린다외국인 foreigner도 같다(배낭 멘 채 팔을 흔든다, 요청서 `CODEX_SOLDIER_FOREIGNER_PROMPT.md` — 군인 넘어짐과 함께, 받은 그림 `reference/foreigner_motion/`) (요청서 `CODEX_CIV_F_MOTION_PROMPT.md`·`CODEX_CIV_M_MOTION_PROMPT.md`·`CODEX_PARAMEDIC_MOTION_PROMPT.md`, 예전 시트는 `reference/old_civ_f/`·`old_civ_m/`·`old_paramedic/`·`old_foreigner/`). 다른 인물도 걸음이 튀면 같은 방법을 쓴다. 직장인 office는 같은 방법에 직장인다운 몸짓(바른 자세·작은 팔 흔들기 출근 걸음, 숙여 서두르는 지각 달리기·펄럭이는 넥타이)을 얹고, 한 손 소지품(서류가방)이 뒤집기로 왼손에 가지 않게 왼쪽 세 방향(↙ ← ↖)도 따로 받았다 — 동작 참고 `reference/civ_f_motion/*_left.png`(오른쪽 줄을 칸마다 뒤집은 것), 받은 오른쪽 5줄·왼쪽 3줄(`reference/office_motion/`)을 칸 크기를 맞춰 8줄 `02_office_walk12_dir8.png`·`_run8_dir8.png`(.rows.txt s se e ne n sw w nw)로 이었다(요청서 `CODEX_OFFICE_MOTION_PROMPT.md`, 예전 시트 `reference/old_office/`). 걷기·달리기를 같은 키로 그린 시트는 머리 폭 맞추기가 달리기를 하한(0.85)까지 줄여서 `RUN_H_OF`로 주인공 비율 0.92를 준다. 주인공 걷기·달리기는 제자리에서 걸으며 천천히 도는 생성 영상(`reference/video/`, 가운데 인물)에서 뽑았다 — `python3 tools/video_cycle_sheet.py find`로 구간마다 처음과 끝이 이어지는 한 바퀴를 찾고, `sheet`로 줄마다 `방향:시작+길이`(끝에 m이면 반걸음 + 좌우로 뒤집은 반걸음 — 영상이 돌아 한 바퀴가 안 이어지는 앞·뒷모습)를 붙여 투명 시트(`00_player_walk24_dir8.png`·`_run16_dir8.png`, 고른 장 번호는 `.rows.txt` 주석)를 낸다. 배경은 이 도구가 지운다(영상 초록이 덜 진해 다듬기 도구의 문턱 90이면 청바지에 구멍이 난다). 영상에 ↓·↘·→·↑만 있어 ←쪽은 뒤집기, ↗·↖는 가까운 →(뒤집은 ←)를 쓴다. 예전 그림 시트는 `reference/old_player_walk24_run8/`. thief·homeless·gang_oldtown·police_heli는 walk8 8행 시트로 8방향을 모두 그림대로 쓴다(gang_smuggler·traffic_cop·flyer는 줄이 한 칸씩 밀려 `.rows.txt`로 방향을 다시 적고 ↗(flyer는 →)는 뒤집기)(코덱스 요청은 `CODEX_WALK8_DIR8_MOTION_PROMPT.md` — 참고 동작 `reference/walk8_motion_ref.png`의 관절 움직임 + `reference/npc_ref/` 인물 그림). 달리기 시트 `NN_<id>_run<M>_dir8.png`가 있으면 걷기 다음 칸에 붙고(`.json`의 `run_dirs`·`run_frames`, 크기는 머리 폭으로 걷기에 맞춘다) 게임이 달리기를 그것으로 그린다 — 한 장 시트 13종 모두와 walk8 인물 7종(thief·homeless·gang_oldtown·gang_smuggler·traffic_cop·flyer·police_heli)(8방향 모두 8장, 8행 시트 ↓ ↘ → ↗ ↑ ↖ ← ↙, `.rows.txt`로 줄 방향을 적는다). 생성 그림은 ↓ 줄을 20%쯤 작게 그리곤 해서 달리기는 줄마다 키를 시트 가운데값에 맞춘다(`RUN_ROW_K`). gang_gangnam(20)·bus_driver(27)는 달리기 시트만 있어 달리기만 넣었다(`.json` dirs [] · frames 0 — 서 있기·걷기는 예전 2방향 그림, 키는 걷기 키의 `RUN_H_RANGE` 가운데). 걷기 시트가 오면 같이 붙는다. 칸을 꽉 채워 그려 모자가 윗줄로 넘어간 시트(줄 간격이 고르지 않다 — 그대로 자르면 머리가 잘린다)는 `python3 tools/regrid_sheet.py 원본 결과 열 줄`로 덩어리마다 칸을 다시 정해 고른 160×240 칸으로 옮긴다(civ_m 달리기, 원본은 `reference/raw/`). `KEEP_TINT` 인물의 초록 배경 달리기는 다리 틈에 남는 짙은 초록을 한 번 더 걷는다(`_despill`, 형광 반사띠가 있는 `NEON`(firefighter)과 마젠타 배경 시트는 뺀다 — 초록 옷이 어두워진다). 줄 수는 `.rows.txt` 줄 수를 따르고(없으면 5행), 머리를 크게 그린 그림은 몸이 작아지므로 달리기 키를 걷기 키의 85~92%(`RUN_H_RANGE`) 안으로 당긴다. 넘어짐 시트 `NN_<id>_fall<K>_dir8.png`(8행 × K장, 서 있기 → 엎드림)가 있으면 달리기 다음 칸에 붙고(`.json`의 `fall_dirs`·`fall_frames`·`fall_col`, 누운 자세는 옆 칸까지 길게 그려져 좌우로 넉넉히 읽고 덩어리 가운데를 칸 가운데에 맞춘다) 주인공이 쓰러지면 `DIR8_FALL_FRAME`(0.09초)마다 넘기다 마지막 칸에서 멈춘다(`_draw_dir8_fall`, 보행자는 예전처럼 눕힌 그림). 그림자는 누울수록 그 칸 그림이 차지한 폭·깊이에 맞춘 부드러운 타원(`_soft_shadow`)과 몸 둘레 그늘이다. `person_gallery.tscn -- --rig --fall`로 본다. 주먹 콤보 시트 `NN_<id>_combo<P>_dir8.png`(8행 × 12장: 싸움 자세 · 잽 · 스트레이트 · 훅 · 싸움 자세)가 있으면 넘어짐 다음 칸에 붙고(`.json`의 `punch_dirs`·`punch_frames`·`punch_col`, 크기는 걷기 키의 `PUNCH_H`배, 가로는 몸통 가운데) 주인공이 주먹을 지를 때마다(`Player.punch`, `COMBO_GAP` 0.7초 안에 이어 지르면) 잽 → 스트레이트 → 훅 토막(`PersonRig.PUNCH_SEGS`)을 `PUNCH_FRAME`(0.07초)마다 넘긴다 — 지금 주인공 맨주먹은 이것 대신 영상 공격을 쓴다(방망이 같은 근접 무기·NPC는 그대로). 주인공 맨주먹은 펀치 영상(`output/imagegen/characters/reference/video/punch.mp4`, 4×2 칸에 같은 동작을 여러 방향에서)에서 뽑은 잽 → 스트레이트 → 어퍼컷(숙여 피하기부터) → 카운터(회피부터) 4가지다: 칸·방향·공격 구간(영상 장 번호, 타격 장, 재생 초)은 `output/imagegen/characters/punch_capture/capture_manifest.json`에 적고, `python3 tools/punch_video_sheet.py <매니페스트> --preview`가 칸마다 배경을 지워 `00_player_attacks_dir8.png`+`.json`(발 기준점은 줄마다 한 번 — 영상이 제자리라 발이 미끄러지지 않는다)을 낸다. `python3 tools/prepare_character_sprites.py player --attacks-only`가 그것을 걷기 시트와 따로 `assets/characters/player_attacks_dir8.png`(걷기 시트 옆에 붙이면 GPU 텍스처 가로 한도 16384px를 넘는다)로 내고 `.json`의 `attack_dirs`·`punch_attacks`([{name, col, frames, hit_frame, duration}])만 바꾼다(크기·옷 색은 같은 방향 걷기 서 있기에 맞춘다, `--attacks-only`는 걷기 시트를 다시 만들지 않는다 — player ↑ 줄은 원본 시트와 다르게 다듬어져 있다). 영상에는 ↓·↙·→·↖만 있어 ↘·←·↗는 뒤집기, ↑는 가까운 ↖·↗를 쓴다(`PersonRig._draw_video_punch`). 입력은 `PlayerWeapons._request_punch`: 누를 때 공격 하나(길게 눌러도 반복 없음), 공격 중 누르면 다음 공격 한 번만 예약, 끝나고 `COMBO_GAP`(0.7초) 안에 누르면 다음 공격·지나면 잽, 시작 때 방향을 끝까지 지킨다. 피해는 공격마다 타격 장(`hit_frame` / `frames` × `duration`)에 한 번만 `Combat.fire`(맨주먹 피해·사거리 그대로). 끝나면 잠시 싸움 자세(`combat_stance`). `-- --rig --ids=player --punch [--shot]`(공격마다 한 줄, 타격 장면), 본편 실제 입력은 `screenshot.tscn -- --only=punch`(방향별 타격 장면·길게 누르기·연타 순서 출력), 검사는 `player_punch_test`. 소총 조준·발사(`WeaponType.pose` rifle — `rifle.tres`)도 같은 도구로 뽑았다: 원본 `reference/video/rifle.mp4`(받은 이름 gun1.mp4, 개머리판을 어깨에 대고 조금 숙여 겨눈 채 2초마다 3점사), `output/imagegen/characters/rifle_capture/capture_manifest.json`(kind rifle, `remove_flash` — 영상 총구 불꽃은 지우고 게임 궤적의 불꽃을 쓴다) → `00_player_rifle_dir8.png` → `--attacks-only`가 `assets/characters/player_rifle_dir8.png` + `.json` `rifle_dirs`·`rifle_clips`(aim 되풀이 · fire). 영상에 ↘·→·←·↖만 있어 ↙·↗는 뒤집기, ↓·↑는 가까운 방향. 서 있을 때만 이 그림이고(`PersonRig._draw_gun`, 걷기·달리기는 평소 그림 — 소총 든 걷기 그림은 없다), 쏠 때마다(`PlayerWeapons.shoot`가 메타 `shot_at`) 발사 장면을 처음부터 넘긴다. 총알은 몸에서 `WeaponType.muzzle`(소총 18)만큼 앞에서 나가고(맞히기), 총 자세 그림일 때 궤적·총구 불꽃은 그림 속 총구에서 시작한다(`PersonRig.gun_muzzle` → `Combat.fire`의 `shown` — 총구 자리는 다듬기 도구가 조준 장면에서 재서 `.json` `<자세>_muzzle`에 적고, 몸에 겹쳐 잴 수 없는 방향은 매니페스트 `muzzle`에 적는다). 권총(`pistol.tres` pose pistol)도 같은 도구로 뽑았다: 원본 `reference/video/pistol.mp4`(받은 이름 gun2.mp4, 두 손으로 앞으로 겨눈 채 제자리에서 천천히 걷고 약 2초마다 한 발 — 칸 너비가 달라 칸마다 따로 잘라 가장 큰 칸에 놓는다, 생성기 워터마크 별은 매니페스트 `star` 칸에서 불투명도를 재서 걷어 낸다), `output/imagegen/characters/pistol_capture/capture_manifest.json` → `assets/characters/player_pistol_dir8.png` + `.json` `pistol_dirs`(8방향 모두 영상)·`pistol_clips`(aim 한 장 · fire · walk 겨눈 채 걷기 한 바퀴). 총 자세 그리기는 `PersonRig._draw_gun`(자세 목록 `GUN_POSES`): 서 있으면 조준·발사, walk 장면이 있으면 걸을 때 걸음 박자로 넘기고, 뛰면 평소 그림. 화면은 `screenshot.tscn -- --only=pistol`, 검사는 `player_pistol_test`. 로켓포(`rocket.tres` pose rocket)도 같은 도구로 뽑았다: 원본 `reference/video/rocket.mp4`(칸 사이 선 없이 10명이 흩어 서서 돌아서며 메고 → 겨누고(103~134) → 쏘면 폭발 연기가 모두를 덮는다), `output/imagegen/characters/rocket_capture/capture_manifest.json` — 칸이 서로 닿아 칸마다 `erase`(옆 인물 조각을 배경색으로 덮을 영상 box), 앞발이 낮은 칸은 `foot_band`. 발사 장면은 연기에 덮여 쓰지 않고 조준 장면에서 만든다: `unload`가 탄두를 지우고(정면 ↓는 탄두가 손 앞에 겹쳐 둘레 옷 색으로 메우고 빈 발사관 입구를 그린다 — `rocket.fill` inpaint·`mouth`), `recoil`이 발사관 축 뒤·위로 밀었다 돌린다. 칸마다 `rocket.tip`(발사관 입구 앞)·`rear`(뒤끝)을 적으면 `.json` `rocket_muzzle`·`rocket_breech`가 된다. 영상에 ↓·↘·→·↖만 있어 ↙·←·↗는 뒤집기, ↑는 가까운 방향. 서 있을 때만 이 그림(겨눈 채 걷는 장면은 없다). 로켓 자체·불꽃·연기는 게임이 그린다: `PlayerWeapons`가 `PersonRig.gun_muzzle`·`gun_breech`를 `Combat.fire`의 shown·rear로 넘기고, 로켓은 그림 속 탄두 자리에서 나와 `ROCKET_SETTLE`을 날며 맞히는 길(가슴 높이)로 내려앉는다(`Combat._rocket_at` — 맞히기는 처음부터 그 길). 꼬리 연기(`_rocket_smoke`, `ROCKET_PUFF_EVERY`마다 그리는 자리가 지난 길 위에)와 쏜 자리의 앞 불꽃·뒤 불길·부채꼴 후폭풍 연기(`_backblasts`)는 화면 좌표로 둥글게 그린다(`FireFx.puff` — 가장자리가 부드러운 연기 덩이). 화면은 `screenshot.tscn -- --only=rocket`, 검사는 `player_rocket_test`. 주인공 제자리 점프(Space·패드 A — 차에서는 핸드브레이크, `Player._jump_step`)도 같은 도구로 뽑았다: 원본 `reference/video/jump.mp4`(4×2 칸, 같은 인물이 제자리에서 두 발로 뛴다 — 웅크림 38~61·발 떨어짐 62·꼭대기 70·닿음 78·다시 섬 99), `output/imagegen/characters/jump_capture/capture_manifest.json`(kind jump, 동작 `ground` — 떠 있는 장을 땅에 내려 두고 내린 만큼을 장마다 `lift`로 적는다) → `assets/characters/player_jump_dir8.png` + `.json` `jump_dirs`·`jump_clips`(takeoff·land 장 차례, 방향마다 lift 칸 px). 영상에 ↖만 없어 ↗를 뒤집는다. `PersonRig._draw_jump`가 웅크림 `Player.JUMP_PRE` · 공중 `JUMP_AIR` · 받기 `JUMP_POST`로 장을 넘기고 공중에서는 lift × `JUMP_LIFT`만큼 올려 그린다(그림자는 땅에서 작아진다). 그림만 뜬다 — 충돌·층은 땅 그대로, 뛴 순간의 걸음 속도·방향을 끝까지 지키고, 뛰는 동안은 쏘지 않는다. 화면은 `screenshot.tscn -- --only=player_jump`. 주인공 넘어짐·기절도 같은 도구로 뽑았다: 원본 `reference/video/fall.mp4`(4×3 칸 — 36~82장 휘청 → 무릎 → 엎드림, 84장부터 엎드려 숨만 쉰다, 칸 3·6·7·10은 쓰러지지 않아 버린다), `output/imagegen/characters/ko_capture/capture_manifest.json`(kind ko, 칸마다 누운 머리 쪽 `head` left·right) → `assets/characters/player_ko_dir8.png`(칸 256×112 — 누운 몸이 옆으로 길다, `KO_CELL_W`) + `.json` `ko_dirs`·`ko_clips`(fall 1.2초 한 번 · out 숨쉬기 되풀이)·`ko_head`(다 누운 머리 자리). 영상에 ↘·←가 없어 ↙·→를 뒤집는다. 쓰러지면(`Player.knock_down`·체력 0 기절) `PersonRig._draw_dir8_fall`이 fall을 넘기고 out을 되풀이한다 — 일어나는 장면은 쓰지 않는다(체포·병원으로 넘어간다). 기절(체력 0)이면 머리 위에 노란 별이 돈다(`Player._draw_out_stars`, 매에 쓰러진 체포는 별 없음). ko 그림이 없으면 예전 넘어짐 시트(`fall_col`). 화면은 `screenshot.tscn -- --only=player_ko`(pko_<방향>_fall·_out·pko_bust). 보행자 넘어짐도 이 그림에서 포즈 옮기기로 만든다: 주인공 시트에서 10장(`tools/ko_pose_sheet.py`의 `PICK` — 쓰러짐 9장 + 숨쉬기)을 고른 동작 참고 `reference/ko_motion/fall10_motion_ref_a·b.png`(5열 × 6행, 줄은 영상 시트 줄 순서)를 주고 코덱스가 인물만 바꿔 그린 `reference/ko_motion/<NN>_<id>_fall10_a·b.png`(요청서 `CODEX_KO_NPC_PROMPT.md`, 손에 든 가방은 무릎이 닿을 때 바닥에 놓친다)를 `python3 tools/ko_pose_sheet.py <NN>_<id>`가 칸마다 주인공 참고 칸 자리·크기에 맞춰 `<NN>_<id>_ko_dir8.png`+`.json`(주인공 줄의 발 기준점·키·머리 쪽)으로 내고, `prepare_character_sprites.py <id> --attacks-only`가 `assets/characters/<id>_ko_dir8.png`로 넣는다 — 지금 civ_f·civ_m·office·paramedic·soldier(소총을 놓친다)·foreigner. 그림이 있으면 보행자도 `_draw_dir8_fall`로 쓰러지고(없으면 예전처럼 눕힌 그림), 모습이 바뀔 때만 다시 그리므로 `PersonRig.ko_frame`을 다시 그릴 열쇠에 넣는다. 기절 별은 누운 머리(`ko_head`) 위(`Pedestrian._draw_out_stars`). 화면은 `screenshot.tscn -- --only=npc_ko`(nko_<id>_fall·_out). 군인(soldier)도 같은 방법으로 소총을 든 걷기 12장·달리기 8장(동작 참고는 `reference/civ_f_motion/`, 팔은 소총을 두 손으로 든 채)과 소총 겨누기·쏘기(주인공 소총 시트에서 겨누기 4장 + 쏘기 8장을 고른 `reference/soldier_motion/rifle12_motion_ref_a·b.png`, ↘ → ↖ ←)를 받았다 — 요청서 `CODEX_SOLDIER_PROMPT.md`, 받은 그림 `reference/soldier_motion/`, 예전 시트 `reference/old_soldier/`, 소총은 `ko_pose_sheet.py 25_soldier --kind=rifle` → `prepare_character_sprites.py soldier`가 `assets/characters/soldier_rifle_dir8.png`(+ `.json` `rifle_dirs`·`rifle_clips`·`rifle_muzzle`). 보행자는 총을 들었으면(`Pedestrian._drawn_weapon` — 경찰·군인은 `npc.weapon`) 자기 그림이 있는 총 자세를 쓴다(`PersonRig._gun_pose`): 서 있으면 겨누기, 쏘면(`PoliceDispatcher._shoot`이 메타 `shot_at`) 발사 장면, 궤적은 그림 속 총구에서(`gun_muzzle`의 look). 경찰은 일하는 동안 늘 WALK 상태라 그림 걸음을 빠르기로 고른다(`PoliceOfficer._draw_gait` — 서 있기·걷기·쫓아 뛰면 달리기). 화면은 `screenshot.tscn -- --only=soldier`(soldier_aim·_fire·_run_N). `person_gallery.tscn -- --rig --rifle [--shot]`, 본편은 `screenshot.tscn -- --only=rifle`, 검사는 `player_rifle_test`. `.rows.txt` 줄 끝에 `>방향 칸`(예: `s 1-7 >se 8-12`)을 붙이면 그 칸은 도는 장면(`.json`의 `turns`)이다. 주인공은 보이는 방향을 목표까지 45°씩 `DIR8_TURN_STEP`(0.07초)마다 돌리고, 달리며 도는 장면이 있는 두 방향 사이를 오가면 그 장면을 넘긴다(`_dir8_turn`, 지금 주인공 시트에는 도는 장면이 없다 — 예전 12장 시트는 `output/imagegen/characters/reference/old_player_run12/`). 보행자는 걸음 박자가 바뀔 때만 다시 그려 중간 방향에서 멈출 수 있어 바로 바꾼다. 줄 배치가 다르거나 튀는 칸이 있으면 같은 이름의 `.rows.txt`에 줄마다 `방향 [칸]`(예: `s 1-7`, `n 1-12,14`, 안 쓰는 줄은 `-`)을 적는다. 달리기 그림이 없으면 정방향 4방향 그림의 달리기를(`_dir4_has_run`), 그것도 없으면 걷기를 빠르게 넘긴다. 4방향·8방향 칸(128px)과 기본 시트 칸(96px)을 섞지 않는다.
 인물 모션 편집기 `tools/motion_editor.html`(브라우저로 파일을 바로 연다)는 그림을 넣어 칸으로 자르고, 방향·동작(서 있기·걷기·달리기)마다 장면 순서를 넣고·빼고·바꾸며 방향키(Shift 달리기)로 미리 본다. 다듬기 규칙(배경·초록 띠·시트마다 같은 배율·발끝·몸통 무게중심)은 `prepare_character_sprites.py`와 같고, "게임 8방향 내보내기"는 `<id>_dir8.png`+`.json`을 같은 형식으로 낸다(assets/characters/에 넣는다). 작업은 브라우저 저장소에 남고 "작업 저장"은 그림까지 담은 .json이다. 장면 줄·칸 모음에서 Shift(사이를 모두)·⌘(하나씩)로 여러 장을 골라 한꺼번에 옮기기·뒤집기·복제·빼기·넣기를 한다. "게임 그림 보기" 탭(`motion_editor.html#game`)은 `assets/characters/*_dir8.png`를 게임과 같은 규칙(방향 고르기·뒤집기·걸음 박자·주인공 45° 돌기·넘어짐·주먹 콤보·`body_scale`)으로 돌린다 — 목록은 `tools/motion_game_index.js`(`python3 tools/gen_motion_index.py`, 그림을 다시 뽑으면 같이 만든다. 파일로 연 페이지는 .json을 못 읽어서 스크립트로 둔다).
 (몸 조각 방식 `PersonRig.draw_parts`·`tools/prepare_character_rig.py`도 남아 있지만 이질적이라 쓰지 않는다 — 조각 그림이 없으면 건너뛴다.)
 효과음(총소리·폭발)은 `GunSynth`(노드 없는 합성기, 종류 `KINDS` — 무거울수록 낮고 길다)가 만들고 `Sfx`(Combat이 붙인다, `Sfx.play(종류, 위치, 크기)`)가 처음에 뒤 스레드에서 `AudioStreamWAV`로 구워 목소리 몇 개로 돌려 튼다(카메라에서 멀수록 작다). 무기 소리는 `WeaponType.sound`. 소리 쪽 무작위는 Sfx 자기 rng를 쓴다(게임 rng를 뽑으면 도주 결과가 바뀐다). 헤드리스에서는 `Sfx.heard`에 기록만 남는다. 들어 보기는 `godot --headless --path . -s res://tools/sound_preview.gd` → `output/sound/*.wav`.
